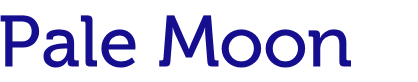
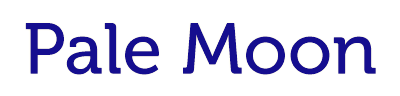
Land new Pale Moon skin

Changed region(s): [[0.0, 0.1707, 0.96, 0.8293]]

diff --git a/components/site/skin/palemoon/site-stylesheet.css b/components/site/skin/palemoon/site-stylesheet.css
@@ -29,8 +29,10 @@ body {
   font-style: normal;
   font-size: 12pt;
   letter-spacing: 0.3px;
-  background-color: #d4d9f7;
-  background: linear-gradient(to bottom, #d4d9f7 0%, #abafea 31%, #999ee8 100%);
+  background-color: #7A98B5;
+  background-image: linear-gradient(to bottom, #7598B9 0%, #A3B5CB 70%, #AFAABD 100%);
+  background-repeat: no-repeat;
+  background-attachment: fixed;
 }
 
 body,td,th {
@@ -63,30 +65,28 @@ a:hover {
 }
 */
 #PM-Wrapper {
-  width: 1200px;
-  min-width: 1200px;
-  max-width: 1200px;
   margin: 0 auto;
-	border: 1px solid;
-	border-color: #888888;
-	text-align: left;
-	box-shadow: 2px 2px 8px #333;
-	border-radius: 9px;
-	padding-left: 3px;
-	padding-right: 3px;
-	padding-top: 3px;
-	padding-bottom: 3px;
-	background-color: rgb(249, 249, 249);
+  border: 1px solid;
+  border-color: #888888;
+  text-align: left;
+  min-width: 1192px;
+  max-width: 1192px;
+  box-shadow: 2px 2px 8px #333;
+  border-radius: 9px;
+  padding: 3px;
+  background-color: rgba(249, 249, 249, 1);
+  color: black;
 }
 
 #PM-Header {
-  width: 100%;
-  height: 82px;
   border-top-left-radius: 7px;
   border-top-right-radius: 7px;
   overflow: hidden;
+  width: 100%;
+  height: 148px;
   background: #dee6e8; /* Old browsers */
-  background: radial-gradient(ellipse at 50% 100%, rgba(236,242,240,1) 0%,rgba(236,242,240,0.5) 50%,rgba(255,255,255,0) 100%), radial-gradient(circle at 50% 85%, #dee6e8 0%,#c6ced1 80%,#b8cacc 100%);
+  background: url('{$BASE_PATH}wordmark-palemoon.png') no-repeat center right,
+              url('{$BASE_PATH}sub-banner2.jpg') no-repeat top left;
 }
 
 #PM-Menubar {
@@ -95,8 +95,6 @@ a:hover {
   background-color: rgb(82, 114, 161);
   width: 100%;
   height: 29px;
-  border: solid #A0A0A4;
-  border-width: 1px 0;
 }
 
 #PM-Content {
@@ -238,7 +236,7 @@ h1 {
   font-family: "Museo300Regular","Times New Roman",Times,serif;
   font-size: 20.5pt;
   color: #000066;
-  letter-spacing: 0.3px;
+  margin: 0.5em auto;
 }
 
 h2.faq {
@@ -304,58 +302,52 @@ hr {
 }
 
 /* pull-down mainmenu css */
-.mainmenu {
-  position:relative;
-  z-index:998;
-  float: left;
-  width: 100%;
-  padding: 0;
+.mainmenu{
+	float: left;
+	width: 100%;
+	padding: 0;
+	position: relative;
+	z-index: 500;
+	border: none;
 }
+
 .mainmenu ul {
-  float: left;
-  width: 100%;
-  list-style: none;
-  line-height: 1;
-  color:#FFFFFF;
-  background: #5272A1;
-  padding: 0;
-  border: solid #A0A0A4;
-  border-width: 1px 0;
-  margin: 0 0 0 0;
-  margin-top: -1px;
+	width: 100%;
+	list-style: none;
+	line-height: 1;
+	color:#FFFFFF;
+	background: #5272A1;
+	padding: 0;
+	margin: 0 0 0 0;
   filter:alpha(opacity=97);
-  -moz-opacity:0.98;
   -khtml-opacity: 0.98;
   opacity: 0.98;
-  }
+}
 
 .mainmenu a, .mainmenu a:visited {
   display: block;
   font-family: "Museo500Regular","Times New Roman",Times, serif;
   font-size:11.5pt;
-  font-weight:500;
   font-style:normal;
   text-decoration:none;
   color: #FFFFFF;
   text-decoration: none;
-  padding: 7px 16px;
+  padding: 7px 1em;
   letter-spacing: 0.4px;
   opacity: 0.99;
 }
-.mainmenu ul ul a {
-  width:100%;
-  height:100%;
+.mainmenu ul ul a{
+	width:100%;
+	height:100%;
 }
-.mainmenu ul a {
-  width:1%;
+.mainmenu ul a{
+	width:1%;
 }
 
-
-.mainmenu li {
-  float: left;
-  margin:0;
-  padding: 0;
-  /* width: 8em; */
+.mainmenu li  {
+	float: left;
+	margin:0;
+	padding: 0;
 }
 
 .mainmenu ul li { float:left; position:relative; }
@@ -369,16 +361,16 @@ hr {
 
   background: #5272A1;
   font-weight: normal;
-  border-width: 1px;
+  border: 1px solid rgba(240,240,255,.5);
   margin: 0;
 }
 
 .mainmenu li li {
-	width:15em ;
+	width:15em;
 }
 
 .mainmenu li li a{
-	width:13em ;
+	width:13em;
 }
 
 .mainmenu li ul  {
